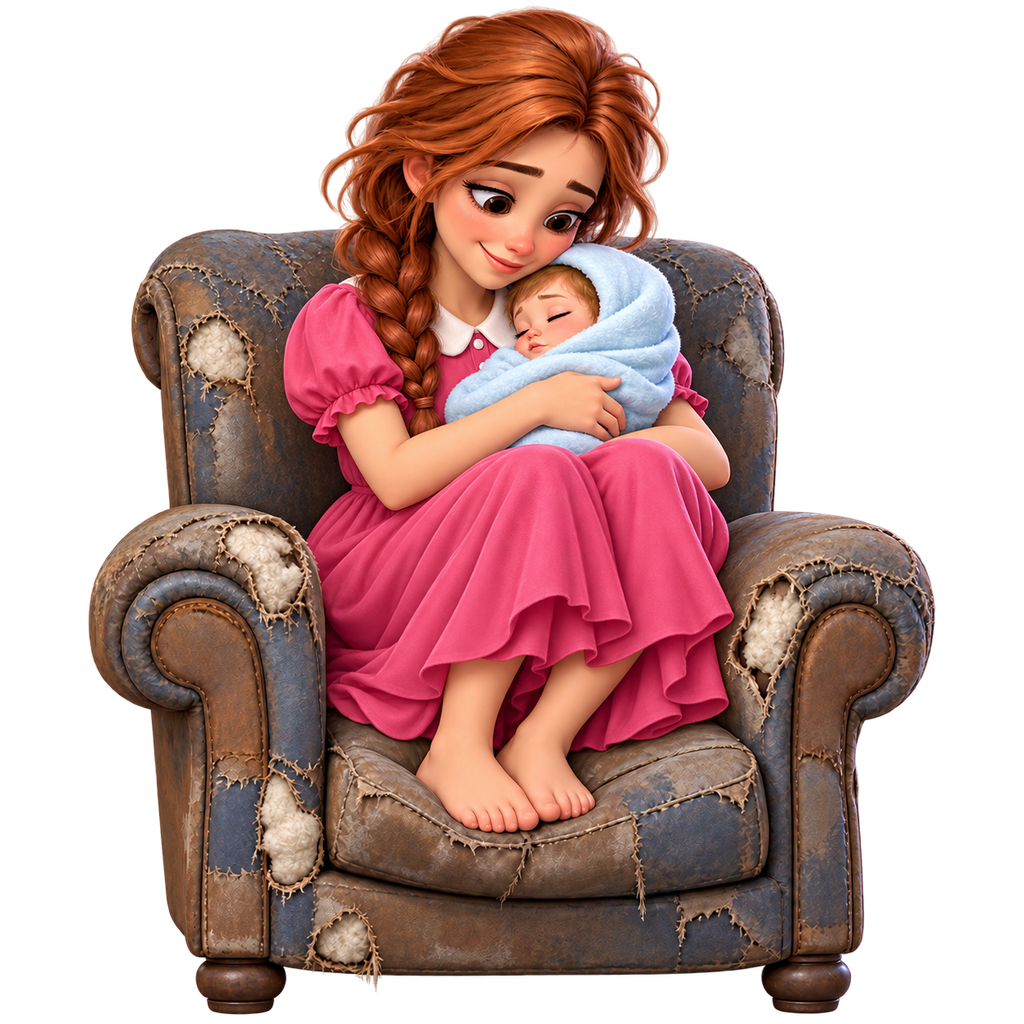
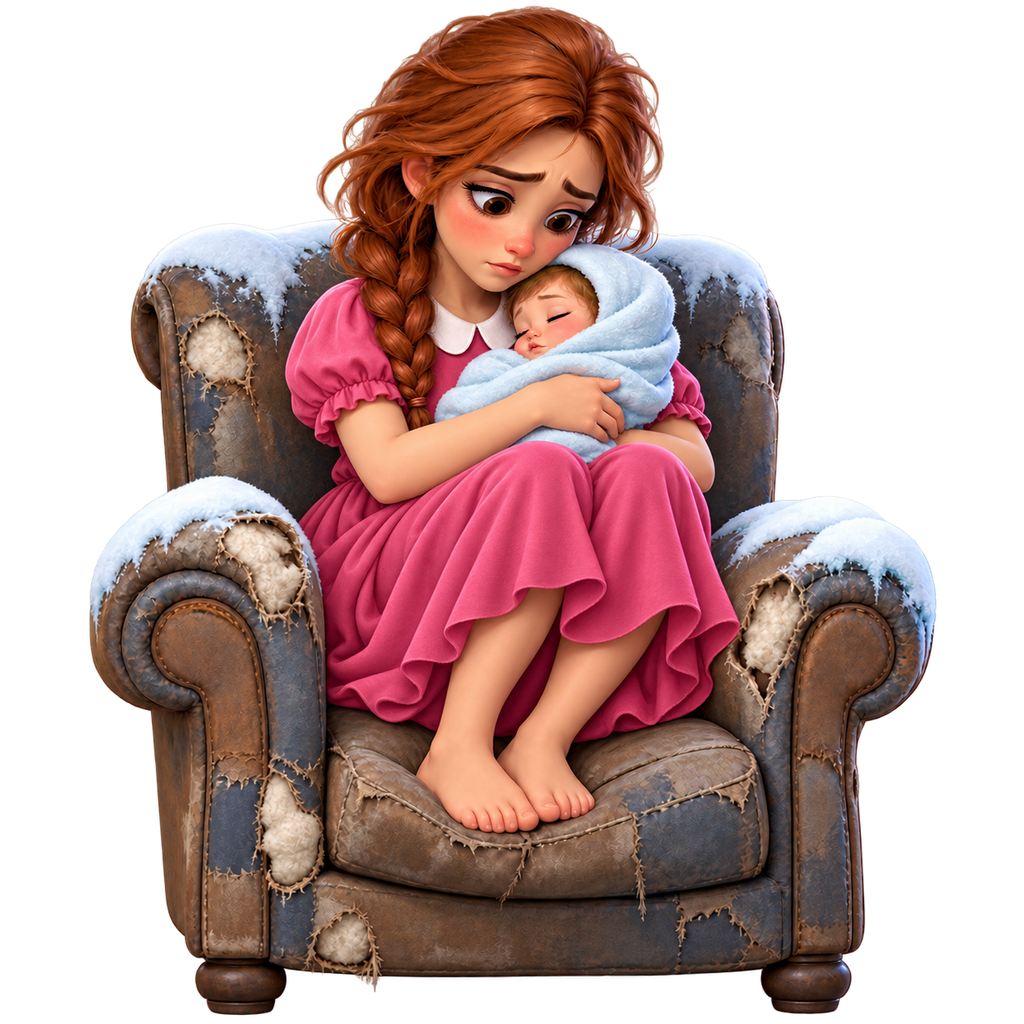
each choice changes only its own thing: hero_comb (hair), hero_dress (clothes), window patch; no global warm grade

diff --git a/live/scene.js b/live/scene.js
@@ -23,7 +23,8 @@
   const spr = (n, cx, cy, w, h, o = {}) => { if (!has(n)) return; const s = o.s === undefined ? 1 : o.s, sx = (o.sx || 1) * s, sy = (o.sy || 1) * s; if (s <= 0.01) return;
     const tw = G.tex(n).w, th = G.tex(n).h; if (w && h) { const f = Math.min(w / tw, h / th); w = tw * f; h = th * f; }      // both given = fit inside the box, aspect kept
     if (!w) w = L.hsz(n, h); if (!h) h = w * th / tw; L.sprite(n, cx - w * sx / 2, cy - h * sy / 2, { w: w * sx, h: h * sy, u: { alpha: o.a === undefined ? 1 : o.a } }); };
-  const hero = (n, cx, bottom, a = 1) => { if (!has(n) || a <= 0.003) return; const h = Z[n][1] || L.sz(n, Z[n][0] / G.tex(n).w)[1], w = Z[n][0] || L.hsz(n, h); const [x1, y1, w1, h1] = zr(cx - w / 2 + OX, bottom - h + OY, w, h); L.sprite(n, x1, y1, { w: w1, h: h1, u: { alpha: a } }); };
+  // all room heroes share one scale (same canvas), so the cross-fade does not jump
+  const hero = (n, cx, bottom, a = 1) => { if (!has(n) || a <= 0.003) return; const ks = Z[n][1] ? Z.hero_sad[1] / G.tex('hero_sad').h : 0, h = ks ? G.tex(n).h * ks : L.sz(n, Z[n][0] / G.tex(n).w)[1], w = ks ? G.tex(n).w * ks : Z[n][0]; const [x1, y1, w1, h1] = zr(cx - w / 2 + OX, bottom - h + OY, w, h); L.sprite(n, x1, y1, { w: w1, h: h1, u: { alpha: a } }); };
   const panel = (slot, x, y, w, h, c0, c1, a = 0.85) => { L.rrect(x, y, w, h, Math.min(h / 2, 40), c0, c1, a); L.uiBox(slot, x, y, w, h, 4); };
   const bubble = (x, y, r, a, hot = 1, tail = null) => { L.glow(x, y, r * 1.55, [1, 0.95, 0.5], 0.35 * a * hot, 2.2);
     L.shadow(x + 5, y + 12, r * 1.08, r * 1.0, 0.32 * a);
@@ -31,7 +32,7 @@
       L.solid(tx - ts * 0.6, ty - ts * 0.6, ts * 1.2, ts * 1.2, [1, 0.8, 0.25], an + Math.PI / 4, ts * 0.6, ts * 0.6, a); L.solid(tx - ts / 2, ty - ts / 2, ts, ts, [1, 1, 1], an + Math.PI / 4, ts / 2, ts / 2, a); }
     L.rrect(x - r - 5, y - r - 5, 2 * r + 10, 2 * r + 10, r + 5, [1, 0.86, 0.32], [0.9, 0.6, 0.12], a);                     // golden rim
     L.rrect(x - r, y - r, 2 * r, 2 * r, r, [1, 1, 1], [0.86, 0.9, 1], a); };
-  const lock = (x, y, a) => { L.rrect(x - 15, y - 34, 30, 44, 14, [0.82, 0.84, 0.92], [0.66, 0.68, 0.8], a); L.rrect(x - 26, y - 6, 52, 42, 10, [0.98, 0.8, 0.25], [0.85, 0.6, 0.12], a); L.solid(x - 4, y + 8, 8, 14, [0.3, 0.2, 0.05], 0, 0, 0, a); };
+  const lock = (x, y, a, k = 1) => { L.rrect(x - 15 * k, y - 34 * k, 30 * k, 44 * k, 14 * k, [0.82, 0.84, 0.92], [0.66, 0.68, 0.8], a); L.rrect(x - 26 * k, y - 6 * k, 52 * k, 42 * k, 10 * k, [0.98, 0.8, 0.25], [0.85, 0.6, 0.12], a); L.solid(x - 4 * k, y + 8 * k, 8 * k, 14 * k, [0.3, 0.2, 0.05], 0, 0, 0, a); };
   const handAt = (hx, hy, down) => { if (down) L.glow(hx, hy, 70, [1, 1, 1], 0.35, 2.5);
     if (has('hand')) { const hh = Z.hand[1] * (down ? 0.92 : 1), hw = L.hsz('hand', hh); L.sprite('hand', hx - hw * 0.218, hy - hh * 0.004, { w: hw, h: hh }); }
     else { L.rrect(hx - 34, hy - 34, 68, 68, 34, [1, 1, 1], [0.86, 0.86, 0.9], 0.9); L.ring(hx, hy, 52, 52, [1, 1, 1], down ? 0.8 : 0.3, 0.12); } };
@@ -44,6 +45,7 @@
   S.render = (t) => {
     const ST = S.state || SIM.at(t), GT = ST.t, rnd = L.rnd, bd = ST.bd, ph = ST.phase, ended = ST.end >= 0;
     const shelter = ST.cut >= 0 && GT >= ST.cut, reveal = ph === 'reveal', rt = reveal ? GT - ST.phaseT : 0, warm = reveal ? SS(0, 1.5, rt) : 0, choice = ST.choice || 'comb';
+    const win = choice === 'window', wg = warm * (win ? 0.5 : 0.08), snowOn = reveal && win ? 1 - SS(0, 1, rt) : 1;   // a repaired window stops the draft + snow; the other wishes leave the room cold
     const bq = bd && ph === 'board' ? ease(clamp((GT - ST.phaseT) / K.BOARD_IN, 0, 1)) : bd && reveal ? 1 - ease(clamp((rt - 0.05) / 0.35, 0, 1)) : 0, heroA = ended ? 0 : 1 - bq;   // board covers the room → the hero steps back
     ZF = reveal ? 1 + 0.07 * SS(0, 1.4, rt) : 1;
     // ---- trauma shake from recent events ----
@@ -65,22 +67,22 @@
         L.solid(x, rnd(i, 7) * H, 140 * (0.5 + rnd(i, 6)), 3, [1, 1, 1], -0.12, 0, 0, 0.3); }       // blizzard streaks
     } else {                                                                     // shot B: the shelter
       cover('bg_room');
-      const sad = reveal && choice !== 'window' ? 1 - SS(0.5, 1.1, rt) : 1, cx = HERO[0] + (reveal ? 0 : 3 * Math.sin(GT * 38)), bot = HERO[1];
+      const sad = reveal && choice !== 'window' ? 1 - SS(0.5, 1.1, rt) : 1, cx = HERO[0] + (reveal && win ? 0 : 3 * Math.sin(GT * 38)), bot = HERO[1];
       L.shadow(cx + OX, bot - 10 + OY, 340, 48, 0.55 * heroA);                   // contact shadow: the chair stands on the floor
       hero('hero_sad', cx, bot, sad * heroA);
-      if (reveal && choice === 'comb') hero('hero_happy', cx, bot, SS(0.5, 1.1, rt) * heroA);
+      if (reveal && choice === 'comb') hero('hero_comb', cx, bot, SS(0.5, 1.1, rt) * heroA);
       if (reveal && choice === 'dress') hero('hero_dress', cx, bot, SS(0.5, 1.1, rt) * heroA);
       if (reveal && choice === 'window' && has('window_patch')) { const [px0, py0] = imgPt('bg_room', Z.patchRect[0], Z.patchRect[1]), [px1, py1] = imgPt('bg_room', Z.patchRect[2], Z.patchRect[3]);
         const [x1, y1, w1, h1] = zr(px0 + OX, py0 + OY, px1 - px0, py1 - py0); L.sprite('window_patch', x1, y1, { w: w1, h: h1, u: { alpha: SS(0.5, 1.1, rt) } }); }
-      if (!reveal) for (let j = 0; j < 3; j++) { const q = (GT * 0.9 + j / 3) % 1; L.puff(cx - 20 + 25 * q, bot - 655 - 90 * q, 14 + 28 * q, [1, 1, 1], 0.4 * (1 - q), j + 60); }   // breath puffs [ART: at her mouth]
-      if (!reveal || rt < 1) for (let j = 0; j < 14; j++) { const WIN = imgPt('bg_room', Z.winAt[0], Z.winAt[1]), y = WIN[1] + 60 + (GT * 95 * (0.5 + rnd(j, 5)) + rnd(j, 6) * 600) % 640; L.puff(WIN[0] + (rnd(j, 4) - 0.5) * 280 + 30 * Math.sin(GT + j), y, 7 + 5 * rnd(j, 3), [1, 1, 1], 0.5 * (1 - warm), j + 80); }   // snow through the window
+      if (!(reveal && win)) for (let j = 0; j < 3; j++) { const q = (GT * 0.9 + j / 3) % 1; L.puff(cx - 20 + 25 * q, bot - 655 - 90 * q, 14 + 28 * q, [1, 1, 1], 0.4 * (1 - q), j + 60); }   // breath puffs [ART: at her mouth]
+      if (snowOn > 0.01) for (let j = 0; j < 14; j++) { const WIN = imgPt('bg_room', Z.winAt[0], Z.winAt[1]), y = WIN[1] + 60 + (GT * 95 * (0.5 + rnd(j, 5)) + rnd(j, 6) * 600) % 640; L.puff(WIN[0] + (rnd(j, 4) - 0.5) * 280 + 30 * Math.sin(GT + j), y, 7 + 5 * rnd(j, 3), [1, 1, 1], 0.5 * snowOn, j + 80); }   // snow through the window
     }
     for (let i = 0; i < 36; i++) { const drift = shelter ? 40 : 160, x = (rnd(i, 1) * W + drift * Math.sin(GT * 0.8 + i) + (shelter ? 0 : GT * 160 * rnd(i, 2))) % W, y = (GT * 130 * (0.5 + rnd(i, 2)) + rnd(i, 3) * H) % H;
-      L.puff(x, y, 6 + 6 * rnd(i, 4), [1, 1, 1], 0.5 * (1 - 0.9 * warm), i); }
-    L.solid(0, 0, W, H, [0.05, 0.1, 0.3], 0, 0, 0, 0.16 * (1 - warm));          // cold grade → warm grade on the reveal
-    L.solid(0, 0, W, H, [1.0, 0.65, 0.25], 0, 0, 0, 0.16 * warm);
+      L.puff(x, y, 6 + 6 * rnd(i, 4), [1, 1, 1], 0.5 * (1 - 0.9 * (1 - snowOn)), i); }
+    L.solid(0, 0, W, H, [0.05, 0.1, 0.3], 0, 0, 0, 0.16 * (1 - wg));          // the room stays cold; only a repaired window warms it a little
+    L.solid(0, 0, W, H, [1.0, 0.65, 0.25], 0, 0, 0, 0.16 * wg);
     if (ST.cut >= 0 && GT - ST.cut < 0.3) L.solid(0, 0, W, H, [1, 1, 1], 0, 0, 0, 0.95 * (1 - (GT - ST.cut) / 0.3));   // whip flash on the cut
-    if (reveal) { L.glow(W / 2, H * 0.55, 760, [1, 0.75, 0.4], 0.32 * warm, 2.2); const wp = imgPt('bg_room', Z.winAt[0], Z.winAt[1]); L.glow(wp[0], wp[1], 640, [1, 0.8, 0.45], 0.4 * warm, 2.2);
+    if (reveal) { const wp = imgPt('bg_room', Z.winAt[0], Z.winAt[1]); if (win) L.glow(wp[0], wp[1], 700, [1, 0.8, 0.45], 0.5 * warm, 2.2); else L.glow(HERO[0], choice === 'comb' ? HERO[1] - 640 : HERO[1] - 400, 520, [1, 0.8, 0.5], 0.35 * Math.sin(Math.PI * Math.min(1, rt / 2.4)), 2.2);   // light only where the change happened
       if (rt > 0.35 && rt < 0.65) L.solid(0, 0, W, H, [1, 0.97, 0.85], 0, 0, 0, 0.55 * (1 - Math.abs(rt - 0.5) / 0.15)); }       // bloom flash as the swirl closes, warm light pours in
     L.beginComp();
 
@@ -140,12 +142,13 @@
 
     // ===== reveal FX: magic swirl round her, then the unused wishes come back locked =====
     if (reveal && !ended) {
-      if (rt < 1.6) { const q = rt / 1.6, cx = HERO[0], cy = H * 0.55, r = 70 + 400 * (1 - ease(q)), am = Math.sin(Math.PI * Math.min(1, q * 1.1));
+      const sp = win ? imgPt('bg_room', Z.winAt[0], Z.winAt[1]) : [HERO[0], choice === 'comb' ? HERO[1] - 640 : HERO[1] - 400], R0 = win ? 300 : 330;      // magic swirl closes on the thing she wished for
+      if (rt < 1.6) { const q = rt / 1.6, cx = sp[0], cy = sp[1], r = 60 + R0 * (1 - ease(q)), am = Math.sin(Math.PI * Math.min(1, q * 1.1));
         for (let j = 0; j < 18; j++) { const an = j / 18 * 6.283 + rt * 5; L.star(cx + Math.cos(an) * r, cy + Math.sin(an) * r * 0.8, 30, [1, 0.92, 0.55], am); }
         L.ring(cx, cy, r, r * 0.8, [1, 0.85, 0.5], 0.5 * am, 0.06); }
-      for (let j = 0; j < 9; j++) { const q = (rt * 0.45 + j / 9) % 1; L.star(HERO[0] + (rnd(j, 2) - 0.5) * 320 + 24 * Math.sin(rt * 3 + j), HERO[1] - 430 - 460 * q, 26, [1, 0.62, 0.72], Math.sin(Math.PI * q) * warm); }   // warmth rising off the baby
+      for (let j = 0; j < 9; j++) { const q = (rt * 0.45 + j / 9) % 1; L.star(sp[0] + (rnd(j, 2) - 0.5) * 300 + 24 * Math.sin(rt * 3 + j), sp[1] + 100 - 360 * q, 26, [1, 0.85, 0.5], Math.sin(Math.PI * q) * warm); }   // sparkles drifting up from it
       if (rt > 1.4) UI.ORDER.filter((n) => n !== choice).forEach((n, i) => { const b = UI.bubbles[n], k = popk((rt - 1.4 - 0.12 * i) / 0.3) * 0.85, y = b.y + 7 * Math.sin(GT * 3 + i), a = 0.95;
-        if (k <= 0.01) return; bubble(b.x, y, b.r * k, a, 0.25); spr(GOALTEX[n], b.x, y, Z.icon[0] * k, Z.icon[1] * k, { a: 0.4 }); lock(b.x + b.r * k * 0.55, y + b.r * k * 0.5, 1); });
+        if (k <= 0.01) return; bubble(b.x, y, b.r * k, a, 0.25); spr(GOALTEX[n], b.x, y, Z.icon[0] * k, Z.icon[1] * k, { a: 0.4 }); lock(b.x + b.r * k * 0.55, y + b.r * k * 0.5, 1, k / 0.85); });
     }
 
     // ===== captions + callouts =====
@@ -153,7 +156,7 @@
       if (ph === 'intro') caption('cap1', shelter ? '...SHE FOUND A SHELTER' : 'KICKED OUT IN THE COLD!', 250, SS(0, 0.25, GT));
       if (ph === 'choice') caption('cap2', 'HELP MIA! PICK ONE', 250, SS(0, 0.25, GT - ST.phaseT));
       if (ph === 'board' && ST.got === 0 && bd && bd.busy === 'idle') caption('cap3', 'SWIPE TO MATCH 3', 250);
-      if (reveal && rt > 1.0 && rt < 1.9) caption('capw', 'MIA FEELS WARM AGAIN!', 190, SS(1.0, 1.25, rt));
+      if (reveal && rt > 1.0 && rt < 1.9) caption('capw', choice === 'comb' ? 'LOOKING NEAT AGAIN!' : choice === 'dress' ? 'A WARM NEW DRESS!' : 'NO MORE DRAFT!', 190, SS(1.0, 1.25, rt));
       if (reveal && rt >= 1.9) caption('capn', 'SHE NEEDS MORE...', 190, SS(1.9, 2.15, rt));
     }
     for (const e of ST.ev) { const a = GT - e.t; if (a < 0 || a > 1.1 || ended) continue; const q = a / 1.1;
@@ -171,16 +174,16 @@
 
     // ===================== endcard =====================
     if (ended) { const oy = (H - 1920) / 2, a = GT - ST.end, k = SS(0, 0.45, a), win = ST.endWhy === 'win', pop = (d) => popk((a - d) / 0.35);
-      if (win) L.solid(0, 0, W, H, [0.14, 0.08, 0.04], 0, 0, 0, 0.42 * k); else L.solid(0, 0, W, H, [0.03, 0.05, 0.12], 0, 0, 0, 0.7 * k);       // warm payoff stays warm; the world's hero is hidden (no ghost)
+      if (win) L.solid(0, 0, W, H, [0.04, 0.06, 0.13], 0, 0, 0, 0.55 * k); else L.solid(0, 0, W, H, [0.03, 0.05, 0.12], 0, 0, 0, 0.7 * k);       // warm payoff stays warm; the world's hero is hidden (no ghost)
       const si = pop(0.1); if (si > 0.01) { const ix = W / 2, iy = 175 + oy, r = 82 * si;                                                         // code-drawn app icon
         L.shadow(ix, iy + 14, r * 1.1, r, 0.4); L.rrect(ix - r, iy - r, 2 * r, 2 * r, r * 0.36, [0.55, 0.78, 1], [0.2, 0.38, 0.85]);
         L.solid(ix - r * 0.42, iy - r * 0.05, r * 0.84, r * 0.62, [1, 0.97, 0.9], 0, 0, 0); L.solid(ix - r * 0.43, iy - r * 0.5, r * 0.62, r * 0.62, [0.95, 0.5, 0.25], Math.PI / 4, r * 0.31, r * 0.31);
         L.solid(ix - r * 0.1, iy + r * 0.18, r * 0.2, r * 0.38, [0.6, 0.38, 0.2], 0, 0, 0); L.star(ix + r * 0.55, iy - r * 0.55, r * 0.3, [1, 1, 1], 0.9); }
-      const s1 = pop(0.2); if (s1 > 0.01) { L.label('head', win ? "SHE'S SMILING AGAIN!" : 'MIA STILL NEEDS YOU!', W / 2, 330 + oy, { size: Math.round(72 * s1), font: FONT, col: '#ffffff', out: '#12305a', al: 0.5 });
+      const s1 = pop(0.2); if (s1 > 0.01) { L.label('head', win ? 'ONE WISH GRANTED!' : 'MIA STILL NEEDS YOU!', W / 2, 330 + oy, { size: Math.round(72 * s1), font: FONT, col: '#ffffff', out: '#12305a', al: 0.5 });
         L.label('logo', 'SNOWBOUND HOME', W / 2, 430 + oy, { size: Math.round(80 * s1), font: FONT, col: '#ffe066', out: '#3a2300', al: 0.5 });
-        L.label('tag', 'Rebuild her home!', W / 2, 515 + oy, { size: 54, font: FONT, col: '#ffffff', out: '#12305a', al: 0.5, a: k }); }
-      const sm = pop(0.35); if (sm > 0.01) { const n = win ? (choice === 'dress' ? 'hero_dress' : 'hero_happy') : 'hero_sad';
-        L.glow(W / 2, 860 + oy, 360, [1, 0.85, 0.4], win ? 0.3 : 0.12, 2.2); L.shadow(W / 2, 1115 + oy, 300 * sm, 40 * sm, 0.5); spr(n, W / 2, 850 + oy, 0, 530 * sm * (1 + 0.012 * Math.sin(t * 2.2)));
+        L.label('tag', win ? 'Help Mia fix everything!' : 'Rebuild her home!', W / 2, 515 + oy, { size: 54, font: FONT, col: '#ffffff', out: '#12305a', al: 0.5, a: k }); }
+      const sm = pop(0.35); if (sm > 0.01) { const n = win ? (choice === 'dress' ? 'hero_dress' : choice === 'comb' ? 'hero_comb' : 'hero_sad') : 'hero_sad';
+        L.glow(W / 2, 860 + oy, 360, [1, 0.85, 0.4], win ? 0.22 : 0.1, 2.2); L.shadow(W / 2, 1115 + oy, 300 * sm, 40 * sm, 0.5); spr(n, W / 2, 850 + oy, 0, 530 * sm * (1 + 0.012 * Math.sin(t * 2.2)));
         if (win) for (let j = 0; j < 8; j++) { const q = (t * 0.6 + j / 8) % 1; L.star(W / 2 + (rnd(j, 1) - 0.5) * 520, 1050 + oy - 480 * q, 22, [1, 0.92, 0.55], Math.sin(Math.PI * q) * k); } }
       const s2 = pop(0.45); if (s2 > 0.01) { const st = win ? '6/6 ✓' : ST.got + '/' + K.GOAL, tw = L.labelW('stat', st, { size: 54, font: FONT }) + 70;
         L.rrect(W / 2 - tw / 2, 1170 + oy - 46, tw, 92, 46, [0.12, 0.2, 0.1], [0.06, 0.12, 0.05], 0.8 * s2); L.uiBox('statp', W / 2 - tw / 2, 1170 + oy - 46, tw, 92, 4);

diff --git a/live/assets.js b/live/assets.js
@@ -1,1 +1,1 @@
-window.ASSETS = {"bg_outside": {"w": 1024, "h": 1536, "crop": [0, 0, 1024, 1536], "scale": 1.0}, "bg_room": {"w": 1024, "h": 1536, "crop": [0, 0, 1024, 1536], "scale": 1.0}, "door": {"w": 737, "h": 1503, "crop": [141, 6, 878, 1509], "scale": 1.0}, "hand": {"w": 673, "h": 1510, "crop": [190, 2, 863, 1512], "scale": 1.0}, "hero_dress": {"w": 856, "h": 1017, "crop": [84, 2, 940, 1019], "scale": 1.0}, "hero_happy": {"w": 855, "h": 1008, "crop": [84, 9, 939, 1017], "scale": 1.0}, "hero_sad": {"w": 855, "h": 1015, "crop": [85, 3, 940, 1018], "scale": 1.0}, "hero_snow": {"w": 1479, "h": 915, "crop": [44, 35, 1523, 950], "scale": 1.0}, "tile_coin": {"w": 364, "h": 379, "crop": [2, 2, 366, 381], "scale": 1.0}, "tile_comb": {"w": 304, "h": 405, "crop": [2, 2, 306, 407], "scale": 1.0}, "tile_dress": {"w": 415, "h": 392, "crop": [2, 2, 417, 394], "scale": 1.0}, "tile_leaf": {"w": 368, "h": 391, "crop": [2, 2, 370, 393], "scale": 1.0}, "tile_window": {"w": 340, "h": 392, "crop": [2, 2, 342, 394], "scale": 1.0}, "tile_yarn": {"w": 435, "h": 371, "crop": [2, 2, 437, 373], "scale": 1.0}, "window_patch": {"w": 1024, "h": 1024, "crop": [0, 0, 1024, 1024], "scale": 1.0}};
+window.ASSETS = {"bg_outside": {"w": 1024, "h": 1536, "crop": [0, 0, 1024, 1536], "scale": 1.0}, "bg_room": {"w": 1024, "h": 1536, "crop": [0, 0, 1024, 1536], "scale": 1.0}, "door": {"w": 737, "h": 1503, "crop": [141, 6, 878, 1509], "scale": 1.0}, "hand": {"w": 673, "h": 1510, "crop": [190, 2, 863, 1512], "scale": 1.0}, "hero_comb": {"w": 856, "h": 1008, "crop": [85, 10, 941, 1018], "scale": 1.0}, "hero_dress": {"w": 856, "h": 1018, "crop": [85, 1, 941, 1019], "scale": 1.0}, "hero_sad": {"w": 855, "h": 1015, "crop": [85, 3, 940, 1018], "scale": 1.0}, "hero_snow": {"w": 1479, "h": 915, "crop": [44, 35, 1523, 950], "scale": 1.0}, "tile_coin": {"w": 364, "h": 379, "crop": [2, 2, 366, 381], "scale": 1.0}, "tile_comb": {"w": 304, "h": 405, "crop": [2, 2, 306, 407], "scale": 1.0}, "tile_dress": {"w": 415, "h": 392, "crop": [2, 2, 417, 394], "scale": 1.0}, "tile_leaf": {"w": 368, "h": 391, "crop": [2, 2, 370, 393], "scale": 1.0}, "tile_window": {"w": 340, "h": 392, "crop": [2, 2, 342, 394], "scale": 1.0}, "tile_yarn": {"w": 435, "h": 371, "crop": [2, 2, 437, 373], "scale": 1.0}, "window_patch": {"w": 1024, "h": 1024, "crop": [0, 0, 1024, 1024], "scale": 1.0}};

diff --git a/live/audio.js b/live/audio.js
@@ -36,7 +36,7 @@
     shuffle: (t0) => burst(t0, 0.3, 600, 3000, 0.15, 1),
     win: (t0) => [523, 659, 784, 1047, 1319].forEach((f, i) => tone(f, t0 + i * 0.08, 0.3, 'triangle', 0.14)),
     reveal: (t0) => { [784, 988, 1175, 1568, 1976, 2349].forEach((f, i) => tone(f, t0 + i * 0.09, 0.4, 'sine', 0.09));        // magic swirl
-      [1318, 1568, 1318, 1760].forEach((f, i) => tone(f, t0 + 0.9 + i * 0.1, 0.12, 'triangle', 0.08, 1.15)); },                // the baby giggles
+      [1568, 2093].forEach((f, i) => tone(f, t0 + 0.75 + i * 0.12, 0.35, 'triangle', 0.08)); },                                // ta-da
     end: (t0) => [523, 784].forEach((f, i) => tone(f, t0 + i * 0.12, 0.35, 'triangle', 0.08)),
   };
   window.AUDIO = {
@@ -46,7 +46,7 @@
       if (S.t < last) last = -1;                                           // restart / replay
       for (const e of S.ev) { if (e.t <= last) continue; if (SFX[e.k]) SFX[e.k](now, e); }
       last = S.t;
-      const cold = S.end < 0 && S.phase !== 'reveal' ? 1 : S.phase === 'reveal' ? Math.max(0, 1 - (S.t - S.phaseT) / 1.2) : 0;   // wind dies when the room warms up
+      const cold = S.end < 0 && S.phase !== 'reveal' ? 1 : S.phase === 'reveal' ? (S.choice === 'window' ? Math.max(0, 1 - (S.t - S.phaseT) / 1.2) : 1) : 0;   // wind dies when the room warms up
       wind.g.gain.setTargetAtTime(0.06 * cold * (0.7 + 0.3 * Math.sin(S.t * 0.9)), now, 0.2); wind.f.frequency.setTargetAtTime(420 + 260 * Math.sin(S.t * 0.7), now, 0.3);
     },
   };

diff --git a/live/sizes.js b/live/sizes.js
@@ -3,7 +3,7 @@
 // Anchors of things painted INTO a background are image fractions [x, y] of that background (cover-fit by the scene), measured from the art.
 window.SIZES = {
   tile: [150, 150],         // a board tile fits inside this box (aspect kept) within its 170 px cell
-  hero_sad: [0, 880], hero_happy: [0, 880], hero_dress: [0, 880], hero_snow: [900, 0],
+  hero_sad: [0, 880], hero_comb: [0, 880], hero_dress: [0, 880], hero_snow: [900, 0],
   icon: [170, 170], hand: [0, 270],
   doorBox: [0.585, 0.185, 0.825, 0.505],       // the lit arch opening in bg_outside: [left, top, right, bottom] — the door leaf covers it
   winAt: [0.35, 0.20],                         // centre of the broken window in bg_room

diff --git a/study/PLAN.md b/study/PLAN.md
@@ -41,13 +41,16 @@ BOARD (like 4_match3, room dimmed + blurred-ish via dark overlay behind it):
   the 2nd finishes. Refill = seeded RNG with K.GOAL_BIAS
   (0.30) toward goal tiles; if no move exists → reshuffle (deterministic). `bestMove(S)` (most goal tiles, then most
   tiles) drives: the idle hand (idle > 2.5 s → ghost-swipe of bestMove), scriptInput (demo) and the smoke test.
-REVEAL (wow, ~2.8 s): board drops out, room comes back to full brightness, magic swirl (sparkle ring in code) around
-  the target, then the payoff by choice: COMB → hero_sad cross-fades to hero_happy (neat braid, smiling, baby smiling);
-  WINDOW → window_patch overlay fades onto the window (boards + warm curtain) + indoor snowfall stops; DRESS → hero_dress.
-  In all cases: colour grade goes cold-blue → warm-amber over 1.5 s (tint uniform), warm light glow (code), shivering
-  stops, baby giggle (bright arpeggio). Then the two unused bubbles return small, grey, with a padlock: "SHE NEEDS MORE".
-ENDCARD: headline by endWhy — win "SHE'S SMILING AGAIN!", time/idle "MIA STILL NEEDS YOU!"; subline "Rebuild her home
-  in SNOWBOUND HOME"; mascot = hero_happy (or hero_dress if chosen); stat "6/6 ✓"; whole screen = CTA "PLAY FREE";
+REVEAL (~2.8 s) — EACH CHOICE CHANGES ONLY ITS OWN THING (user decision 2026-10-09, after Gate A):
+  COMB  → only her HAIR becomes neat (hero_comb = edit of hero_sad, hair only). Face still sad, sweater, snow, window: unchanged.
+  DRESS → only her CLOTHES become the pink dress (hero_dress, clothes only). Hair stays messy, window stays broken.
+  WINDOW → only the WINDOW is repaired (window_patch over bg_room): draft + snow through the window stop, she stops shivering,
+           a little warmth in the grade. Her hair/clothes stay as they were.
+  Common: board drops out, magic swirl of stars closes on the changed spot, bloom flash, push-in 1.07, local glow where the change
+  happened (NO global warm grade), cross-fade 0.6 s, caption by choice ("LOOKING NEAT AGAIN!" / "A WARM NEW DRESS!" / "NO MORE
+  DRAFT!"), then the two other wishes return LOCKED (padlock) with "SHE NEEDS MORE..." — they are the unfixed things.
+ENDCARD: headline by endWhy — win "ONE WISH GRANTED!" + "Help Mia fix everything!", time/idle "MIA STILL NEEDS YOU!"; mascot = the
+  hero of the chosen wish (hero_comb / hero_dress / hero_sad for the window); stat "6/6 ✓"; whole screen = CTA "PLAY FREE";
   small replay. No hard fail anywhere; END_MAX 28 s → endWhy 'time'.
 HUD (lay out from H, never 1920): logo text top-left small; goal panel top-centre (BOARD only); persistent CTA bar
   bottom (≈110 px) the whole time incl. INTRO; tutorial hand + line from the template.
@@ -163,6 +166,13 @@ Code-drawn: bubbles, glow, padlock, board frame, goal panel, ribbon captions, li
       sizes; fps; critic scores; known gaps). Commit.
 - [ ] 6. PUBLISH — ASK THE USER FIRST: public repo `bankaino/snowbound-home-playable` + Pages from /docs
       (`python tools/build_playable.py --variant all --pages docs`). Never push study/ref or reference frames.
+
+## Phase 3b (2026-10-09, user feedback: "every choice gives its own result")
+- Replaced hero_happy (changed hair+face+baby+snow) by hero_comb (hair only); hero_dress regenerated (clothes only); both are edits of
+  hero_sad with "everything else identical" (chair/pose match: no more shimmer). All room heroes share one draw scale (same canvas).
+- Removed the global warm grade; window choice stops snow/shiver/breath/wind sound; others keep them. Reveal audio: giggle → ta-da.
+- window_patch feather rebuilt from art/raw (alpha 0 within 60 px of the edge, full at 170 px) — a bright frame line used to show.
+- Variants idea for phase 5: `fix_all` (all three wishes in sequence: three short boards) vs one wish — only if the 30 s budget allows.
 
 ## Risks / notes
 - Hero edits must keep pose + framing or the cross-fade jumps: compare hero_sad vs edit at 50 % opacity on one sheet;
